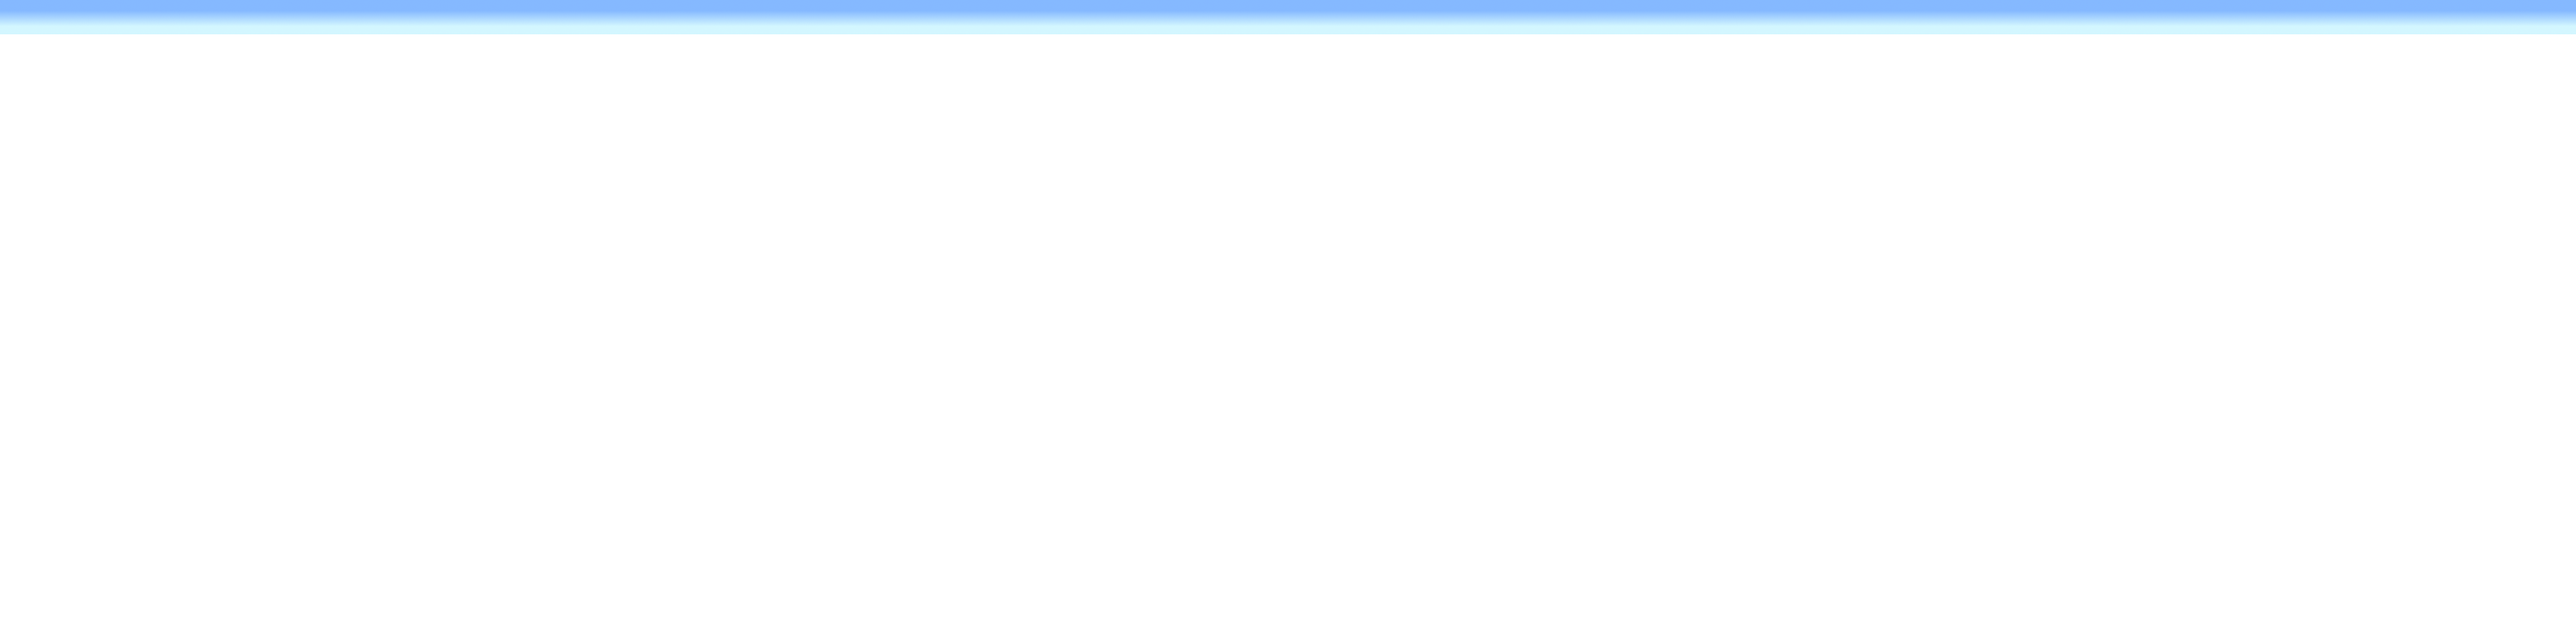
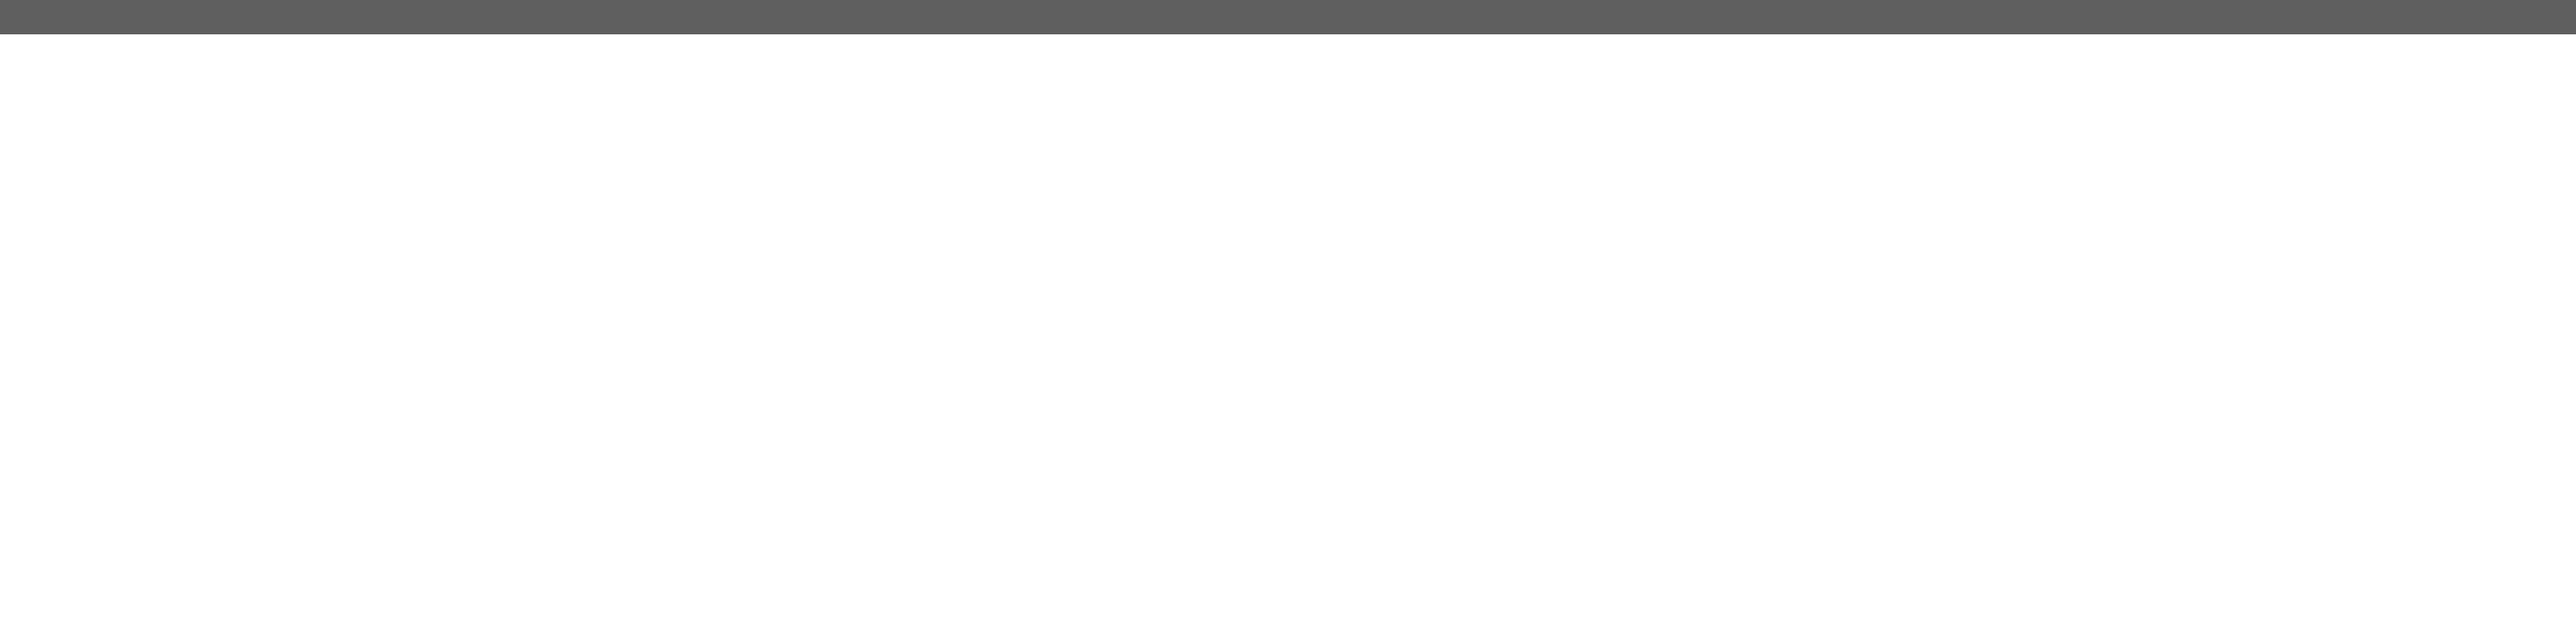
change theme

Changed region(s): [[0.0, 0.0, 1.0, 0.0611]]

diff --git a/index.html b/index.html
@@ -13,26 +13,28 @@
 	<body>
 		<div class="logo"></div>
 		<div class="bar">
-			<a href="index.html" class="href left">About me</a>
-			<a href="#" class="href right">Contact Me</a>
-			<a href="content.html" class="href right">Content</a>
+			<div class="block left"><a href="index.html" class="href">About me</a></div>
+			<div class="block right"><a href="contact.html" class="href">Contact Me</a></div>
+			<div class="block right"><a href="content.html" class="href">Content</a></div>
 		</div>
-		<div class="container"> 
-			<div class="parallel img"></div>
-			<div class="parallel text">
-				<h1>About me</h1>
-				<p>
-					Hi, I'm Yen-Ting Lee.<br>
-					I'm a senior student majored in computer science and information engineering and double-majored in finance at National Taiwan University, and now I'm in <a href="http://140.112.31.186/">Machine Discovery and Social Network Mining Laboratory</a> leading by professor Shou-De Lin.
-					Currently, my research is about information extraction of papers with the combination of our knowledge base.
-					Before this research starts, I participated in <a href="http://www.wsdm-conference.org/2016/">WSDMcup 2016</a> with our lab and won the 8th price. 
-					This competition is about paper ranking with given citation graph and co-author ship heterogeneous graph, and we've done some results concluded in our papers at WSDM conference 2016, which is not published yet. 
-				</p>
-				<p>
-					Skills I learnt: C, C++, java, python, html, css.<br>
-					Recently, I've developed an online board game, with Yilin Wang using java, javafx and css.
-					We designed our own server, client, and gui. It's a great experience in frontend and backend developing.
-				</p>
+		<div class="content">
+			<div class="container"> 
+				<div class="parallel img"></div>
+				<div class="parallel text">
+					<h1>About me</h1>
+					<p>
+						Hi, I'm Yen-Ting Lee.<br>
+						I'm a senior student majored in computer science and information engineering and double-majored in finance at National Taiwan University, and now I'm in <a href="http://140.112.31.186/">Machine Discovery and Social Network Mining Laboratory</a> leading by professor Shou-De Lin.
+						Currently, my research is about information extraction of papers with the combination of our knowledge base.
+						Before this research starts, I participated in <a href="http://www.wsdm-conference.org/2016/">WSDMcup 2016</a> with our lab and won the 8th price. 
+						This competition is about paper ranking with given citation graph and co-author ship heterogeneous graph, and we've done some results concluded in our papers at WSDM conference 2016, which is not published yet. 
+					</p>
+					<p>
+						Skills I learnt: C, C++, java, python, html, css.<br>
+						Recently, I've developed an online board game, with Yilin Wang using java, javafx and css.
+						We designed our own server, client, and gui. It's a great experience in frontend and backend developing.
+					</p>
+				</div>
 			</div>
 		</div>
 		<div class="info">

diff --git a/index/bar.css b/index/bar.css
@@ -1,5 +1,5 @@
 div.bar {
-	background: url(bar.png) repeat-x;
+	background-color: #5f5f5f;
 	max-width: 3000px;
 	height: 40px;
 	border: 0px solid #A9FDF6;
@@ -8,25 +8,27 @@ div.bar {
 	margin: 0px;
 	padding-right: 150px;
 }
-a.href {
+div.block {
 	width: 200px;
 	height: 40px;
 	float: left;
-	font-size: 34px;
-	color: #011996;
-	text-decoration: none;
-	font-family: Arial;
-	font-weight: Bold;
+	text-align: center;
 }
-a.href:link, a.href:visited{
-	background: url(bar.png) repeat-x;
+div.block:link, div.block:visited{
+	background-color: #5f5f5f;
 }
-a.href:hover, a.href:active{
-	background-color: black;
+div.block:hover, div.block:active{
+	background-color: #2e2f2e;
 }
-a.left{
+div.left{
 	float: left;
 }
-a.right{
+div.right{
 	float: right;
+}
+a.href{
+	font-size: 32px;
+	color: #f1f1f1;
+	text-decoration: none;
+	font-family: awesome;
 }

diff --git a/contact.html b/contact.html
@@ -18,8 +18,14 @@
 			<div class="block right"><a href="content.html" class="href">Content</a></div>
 		</div>
 		<div class="content">
-			<div class="container">
-				<div class="articles">
+			<div class="container"> 
+				<div class="parallel img"></div>
+				<div class="parallel text">
+					<h1>Contact me</h1>
+					<ul>
+					<li>Github Repository: <a href="http://www.github.com/ralph831005" id="github" style="color=#2e2f2e" ><img src="pictures/github.png">ralph831005</a></li>
+					<li>Email: <a href="#"><img src="pictures/email.png" style="height: 23px; width: 250px;"></a></li>
+					</ul>
 				</div>
 			</div>
 		</div>

diff --git a/index/body.css b/index/body.css
@@ -1,11 +1,23 @@
+@font-face{
+	font-family: awesome;
+	src: url(../font/fontawesome-webfont.woff);
+}
 body{
-	background-color: #d3f6ff;
+	background-color: #2e2f2e;
 	margin: 0;
 }
-p{
-	font-family: Georgia;
-	font-style: italic;
+p, li{
+	font-family: awesome;
 	font-size: 20px;
+}
+li{
+	padding-top: 20px;
+}
+div.content{
+	background-color: #e6eae7;
+	margin: 0px;
+	width: 3000px;
+	min-height: 600px;
 }
 div.container {
 	max-width: 3000px;

diff --git a/index/info.css b/index/info.css
@@ -1,6 +1,5 @@
 div.info {
-	background-image: url(info.png);
-	background-color: #011996;
+	background-color: #2e2f2e;
 	max-width: 3000px;
 	height: 1000px;
 }
